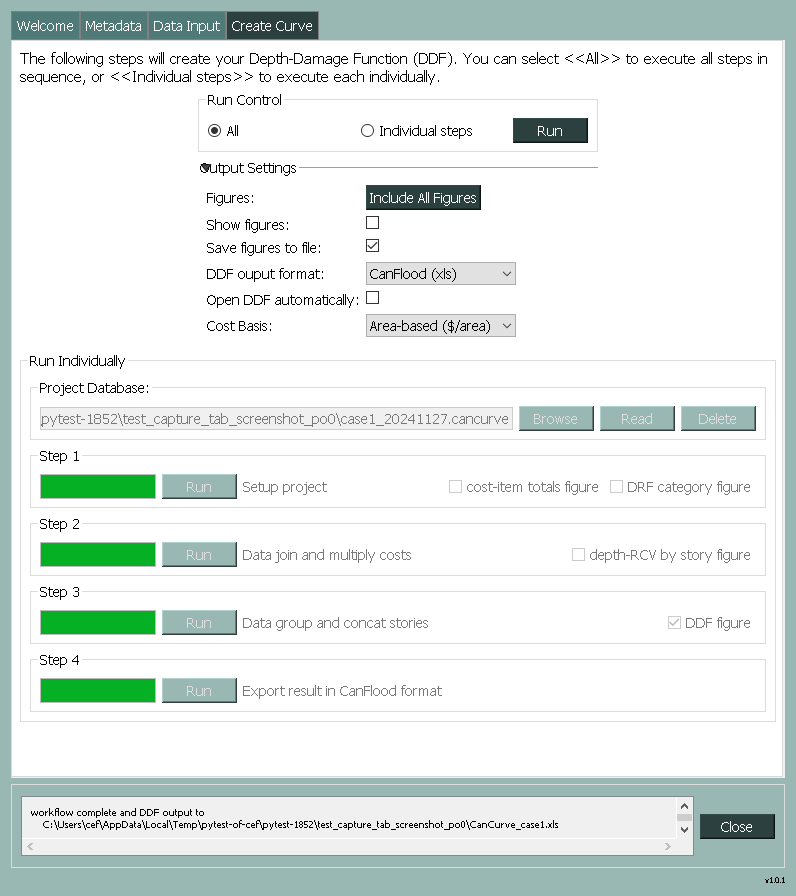
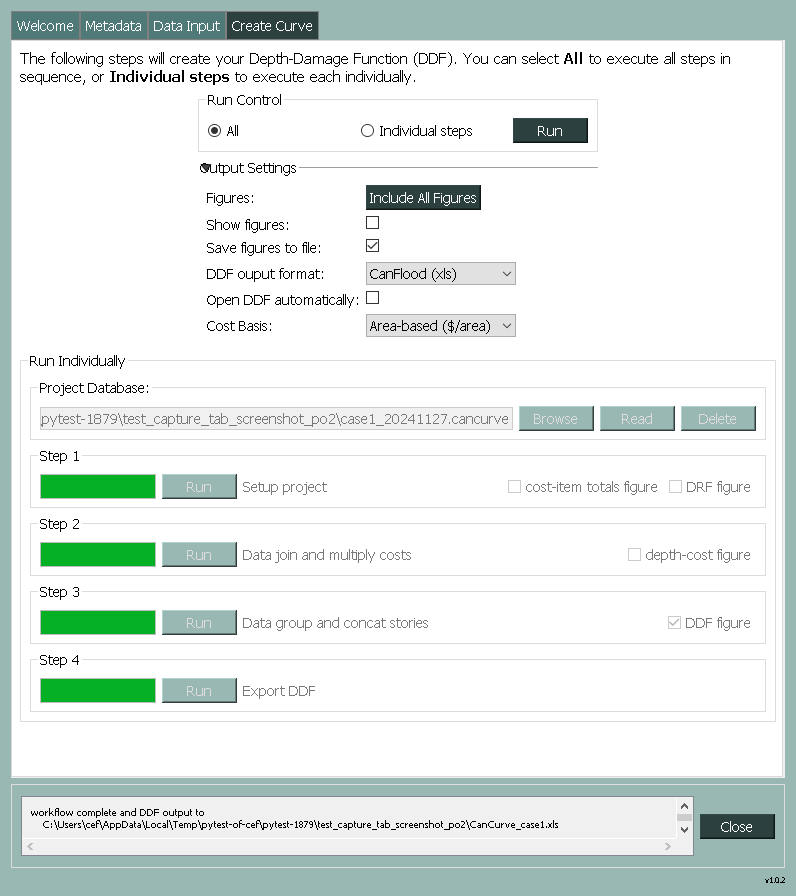
clean up plot text. add plotting section to documentation

diff --git a/tests/bldgs/test_plots.py b/tests/bldgs/test_plots.py
@@ -16,6 +16,7 @@ from unittest.mock import patch
 import matplotlib.pyplot as plt
 
 from .conftest import find_single_file_by_extension, test_data_dir_master
+from cancurve.parameters import src_dir
 
 
 #===============================================================================
@@ -31,14 +32,21 @@ load_tests_cases_from_file(
     ) #setup file-based test cases
 
 
+write_to_docs = False #using this to update the documentation with the plots from case1
+
 #===============================================================================
 # helpers-----
 #===============================================================================
-def write_fig(figure, ofp, write=True, log=None):
+def write_fig(figure, ofp, write=True, log=None, testCase='testCase'):
     if write:
         figure.savefig(ofp, format='svg')
         if not log is None:
             log.info(f'wrote figure to \n    {ofp}')
+            
+        if write_to_docs and testCase=='case1':
+            ofp1 = os.path.join(src_dir, 'docs', 'source', 'assets', 'figs', testCase, os.path.splitext(os.path.basename(ofp))[0] + '.png')
+            os.makedirs(os.path.dirname(ofp1), exist_ok=True)
+            figure.savefig(ofp1, format='png', transparent=True)
         
     plt.close('all')
 
@@ -77,14 +85,14 @@ def action_result(testCase, testPhase):
 #@pytest.mark.dev
 @pytest.mark.parametrize('testPhase',['c00'], indirect=False)
 @pytest.mark.parametrize('testCase',test_cases_l, indirect=False)
-def test_plot_c00_costitems(action_result, tmp_path, logger):
+def test_plot_c00_costitems(action_result, tmp_path, logger, testCase):
     ci_df, _, _ , _= action_result #c00 returns both of these
     
     from cancurve.bldgs.plots import plot_c00_costitems as func
     
     figure = func(ci_df, log=logger)
     
-    write_fig(figure, os.path.join(tmp_path, 'plot_c00_costitems.svg'), log=logger)
+    write_fig(figure, os.path.join(tmp_path, 'plot_c00_costitems.svg'), log=logger, testCase=testCase)
     
 
     
@@ -102,35 +110,35 @@ def test_plot_c00_DRF(action_result, tmp_path, logger, testCase):
     
     figure = func(drf_df, log=logger)
  
-    write_fig(figure, os.path.join(tmp_path, 'plot_c00_DRF.svg'), log=logger)
+    write_fig(figure, os.path.join(tmp_path, 'plot_c00_DRF.svg'), log=logger, testCase=testCase)
     
     
 
  
 @pytest.mark.parametrize('testPhase',['c01'], indirect=False)
 @pytest.mark.parametrize('testCase',test_cases_l, indirect=False)
-def test_plot_c01_depth_rcv(action_result, tmp_path, logger):
+def test_plot_c01_depth_rcv(action_result, tmp_path, logger, testCase):
     data = action_result #c00 returns both of these
     
     from cancurve.bldgs.plots import plot_c01_depth_rcv as func
     
     figure = func(data, log=logger)
     
-    write_fig(figure, os.path.join(tmp_path, 'plot_c01_depth_rcv.svg'), log=logger)
+    write_fig(figure, os.path.join(tmp_path, 'plot_c01_depth_rcv.svg'), log=logger, testCase=testCase)
     
     
 
 @pytest.mark.dev
 @pytest.mark.parametrize('testPhase',['c02'], indirect=False)
 @pytest.mark.parametrize('testCase',test_cases_l, indirect=False)
-def test_plot_c02_ddf(action_result, tmp_path, logger):
+def test_plot_c02_ddf(action_result, tmp_path, logger, testCase):
     data = action_result #c00 returns both of these
     
     from cancurve.bldgs.plots import plot_c02_ddf as func
     
     figure = func(data, log=logger)
     
-    write_fig(figure, os.path.join(tmp_path, 'plot_c02_ddf.svg'), log=logger)
+    write_fig(figure, os.path.join(tmp_path, 'plot_c02_ddf.svg'), log=logger, testCase=testCase)
     
     
     

diff --git a/cancurve/bldgs/plots.py b/cancurve/bldgs/plots.py
@@ -341,7 +341,7 @@ def plot_c00_DRF(df_raw,
     
  
     
-    figure.suptitle('Depth-Replacement-Factors'+'\nby category')
+    figure.suptitle('Depth-Replacement-Factors'+'\nby Category')
     figure.supxlabel('depth (%s)'%df_raw.columns.name)
     figure.supylabel(ylabel)
     #figure.subplots_adjust(hspace=0, wspace=0)
@@ -439,7 +439,7 @@ def plot_c01_depth_rcv(df_raw,
     #===========================================================================
     ax.xaxis.set_major_formatter(plt.matplotlib.ticker.StrMethodFormatter('{x:.1f}'))
     
-    figure.suptitle('Depth-cost'+'\nby storey')
+    figure.suptitle('Depth-Cost'+'\nby Storey')
     
     xlab = 'depth'
     if not expo_units is None:
@@ -490,6 +490,11 @@ def plot_c02_ddf(df_raw,
     assert bx.sum()==1
     
  
+    #try ane rename columns (probably a better way to do this)
+    try:
+        df = df.rename(columns={'main':'storey: 0', 'base':'storey: -1'})
+    except Exception as e:
+        log.error(f'failed to rename columns w/\n    {e}')
     
     #===========================================================================
     # setup figure
@@ -520,7 +525,7 @@ def plot_c02_ddf(df_raw,
     ax.yaxis.set_major_formatter(plt.matplotlib.ticker.StrMethodFormatter('{x:,.0f}'))
     ax.xaxis.set_major_formatter(plt.matplotlib.ticker.StrMethodFormatter('{x:.2f}'))
     
-    figure.suptitle('Depth-Damage-Function')
+    figure.suptitle('Depth-Damage Function')
     
     xlab = 'depth'
     if not expo_units is None:

diff --git a/docs/source/02_user-guide.rst b/docs/source/02_user-guide.rst
@@ -7,7 +7,7 @@ User Guide: Buildings Tool
 .. _sec02-bldgs:
 
 
-The CanCurve **Buildings Tool** creates Depth Damage Functions (DDF) for archetypal Canadian buildings using detailed restoration cost data.
+The CanCurve **Buildings Tool** creates Depth-Damage Functions (DDF) for archetypal Canadian buildings using detailed restoration cost data.
 The resulting DDFs can be used to estimate potential costs and losses from flood scenarios using a flood risk modelling tool such as CanFlood.
 The tool joins restoration cost data with information on an item's vulnerability to floods. It then groups the data by flood depth to create a simple function that represents *flood damage* in relation to *flood depth*.
 
@@ -22,12 +22,12 @@ Traditionally, assessments have focused on a single flood scenario, which can le
 A more effective approach is a risk-based approach that considers a range of flood scenarios - from frequent nuisance floods to rare catastrophic events.
 This approach helps communities to better understand and plan for a range of strategies that address both current and future flood risks.
 Water on the floodplain is not the problem; it is how flood water interacts with both the natural and human environments. Flood risk models take into account the flood hazard data, exposure to flooding, and the vulnerability of those elements.
-Depth Damage Functions (DDFs) are the most effective method to estimate direct damages.
+DDFs are the most effective method to estimate direct damages.
 For instance, DDFs can estimate the costs of damage to a building based on the depth of floodwater.
-However, the accuracy of these models depends on the robustness of the Depth Damage Function applied. In Canada, there are limited DDFs available, and many may not be suitable for all regions due to variations in both the built environment and the type of flood events, from flash floods to ice jams, high-energy coastal floods or even tsunamis.
+However, the accuracy of these models depends on the robustness of the DDF applied. In Canada, there are limited DDFs available, and many may not be suitable for all regions due to variations in both the built environment and the type of flood events, from flash floods to ice jams, high-energy coastal floods or even tsunamis.
 
 
-Depth Damage Functions (DDF)
+Depth-Damage Functions (DDF)
 ~~~~~~~~~~~~~~~~~~~~~~~~~~~~~~~
 Flood damage functions are a mathematical relationship between hazard and vulnerability variables against the estimated damages from flooding (e.g., building repair costs) for an individual asset.
 The most basic functions directly relate flood depth to damage --- the so-called depth-damage curves or functions (DDF) widely attributed to Gilbert White [#1]_.
@@ -188,6 +188,57 @@ You can think of the first three steps as a collection of database operations to
 For more information on the intermediate tables generated by these steps, see :ref:`Project Database tables <tab02-ProjectDatabase>`.
 
 
+Summary Figures
+~~~~~~~~~~~~~~~~~~~~
+
+The **Create Curve** tab provides the user with the option to generate diagnostic figures or plots to better understand the results of the database operations of the first three core steps.
+Generating the figures is optional, and can be controlled via the **Output Control** box and selecting the **Individual Steps** radio button.
+Data displayed on the figures is read directly from the corresponding tables of the :ref:`Project Database <sec02-projectDatabase>`.
+
+Cost-Item Totals Figure
+^^^^^^^^^^^^^^^^^^^^^^^
+
+This bar chart summarizes the total cost of each cost item in the :ref:`Cost-Item table <sec02-pdb-costitems>` created in Step 1.
+
+.. figure:: /assets/figs/case1/plot_c00_costitems.png
+   :alt: Cost-Item totals
+   :align: center
+   :width: 900px
+
+DRF Figure
+^^^^^^^^^^^^^^^^^^^^^^^^^^^^^^^^
+
+This collection of plots summarize the replacement factors contained in the :ref:`DRF table <sec02-pdb-drf>`, grouped by category.
+An average of all items within a category is also shown as a dashed black line.
+This figure can be useful to quickly diagnose problems with the DRF data.
+
+.. figure:: /assets/figs/case1/plot_c00_drf.png
+   :alt: Depth-Replacement Factors
+   :align: center
+   :width: 900px
+
+Depth-Costs by Storey Figure
+^^^^^^^^^^^^^^^^^^^^^^^^^^^^
+
+This stacked line plot shows the costs for each storey in the building as a function of exposure depth from the :ref:`Depth-Costs table <sec02-pdb-depthrcv>`.
+This figure can be helpful to understand the main contributions to your DDF.
+
+.. figure:: /assets/figs/case1/plot_c01_depth_rcv.png
+   :alt: Depth-Costs by Storey
+   :align: center
+   :width: 900px
+
+DDF Figure
+^^^^^^^^^^^^^^^^^^^^^^^^^^^^
+
+This plot shows the final DDF for the building read from the :ref:`DDF table <sec02-pdb-ddf>`.
+
+.. figure:: /assets/figs/case1/plot_c02_ddf.png
+   :alt: Depth-Damage Function
+   :align: center
+   :width: 900px
+
+
 
 Results
 -----------------
@@ -272,20 +323,22 @@ Key fields extracted from the **Metadata** tab.
    :file: assets/pd_tables/c00_bldg_meta.csv
    :header-rows: 1
 
+.. _sec02-pdb-costitems:
 
 c00_cost_items
 ^^^^^^^^^^^^^^
-Copy of the user-supplied :ref:`sec02-costitem` table.
+Copy of the user-supplied :ref:`sec02-costitem` table. `drf-intersect` column is added to indicate if the cost item intersects with the DRF database.
 
 
 .. csv-table:: c00_cost_items
    :file: assets/pd_tables/c00_cost_items.csv
    :header-rows: 1
 
+.. _sec02-pdb-drf:
 
 c00_drf
 ^^^^^^^^
-Extract of the user-specified :ref:`Depth-Replacement Factor (DRF) data <sec02-drf>`.
+Extract of the user-specified :ref:`Depth-Replacement Factor (DRF) data <sec02-drf>`. Header values correspond to the exposure depth in the project units.
 
 .. csv-table:: c00_drf
    :file: assets/pd_tables/c00_drf.csv
@@ -300,6 +353,8 @@ Extract of the user-supplied fixed cost :ref:`sec02-fixedCosts` data.
    :header-rows: 1
 
 
+.. _sec02-pdb-depthrcv:
+
 c01_depth_rcv
 ^^^^^^^^^^^^^^
 Join of the :ref:`sec02-costitem` and :ref:`sec02-drf` tables with the fractional restoration costs for each depth multiplied through.
@@ -307,6 +362,9 @@ Join of the :ref:`sec02-costitem` and :ref:`sec02-drf` tables with the fractiona
 .. csv-table:: c01_depth_rcv
    :file: assets/pd_tables/c01_depth_rcv.csv
    :header-rows: 1
+
+
+.. _sec02-pdb-ddf:
 
 c02_ddf
 ^^^^^^^^
